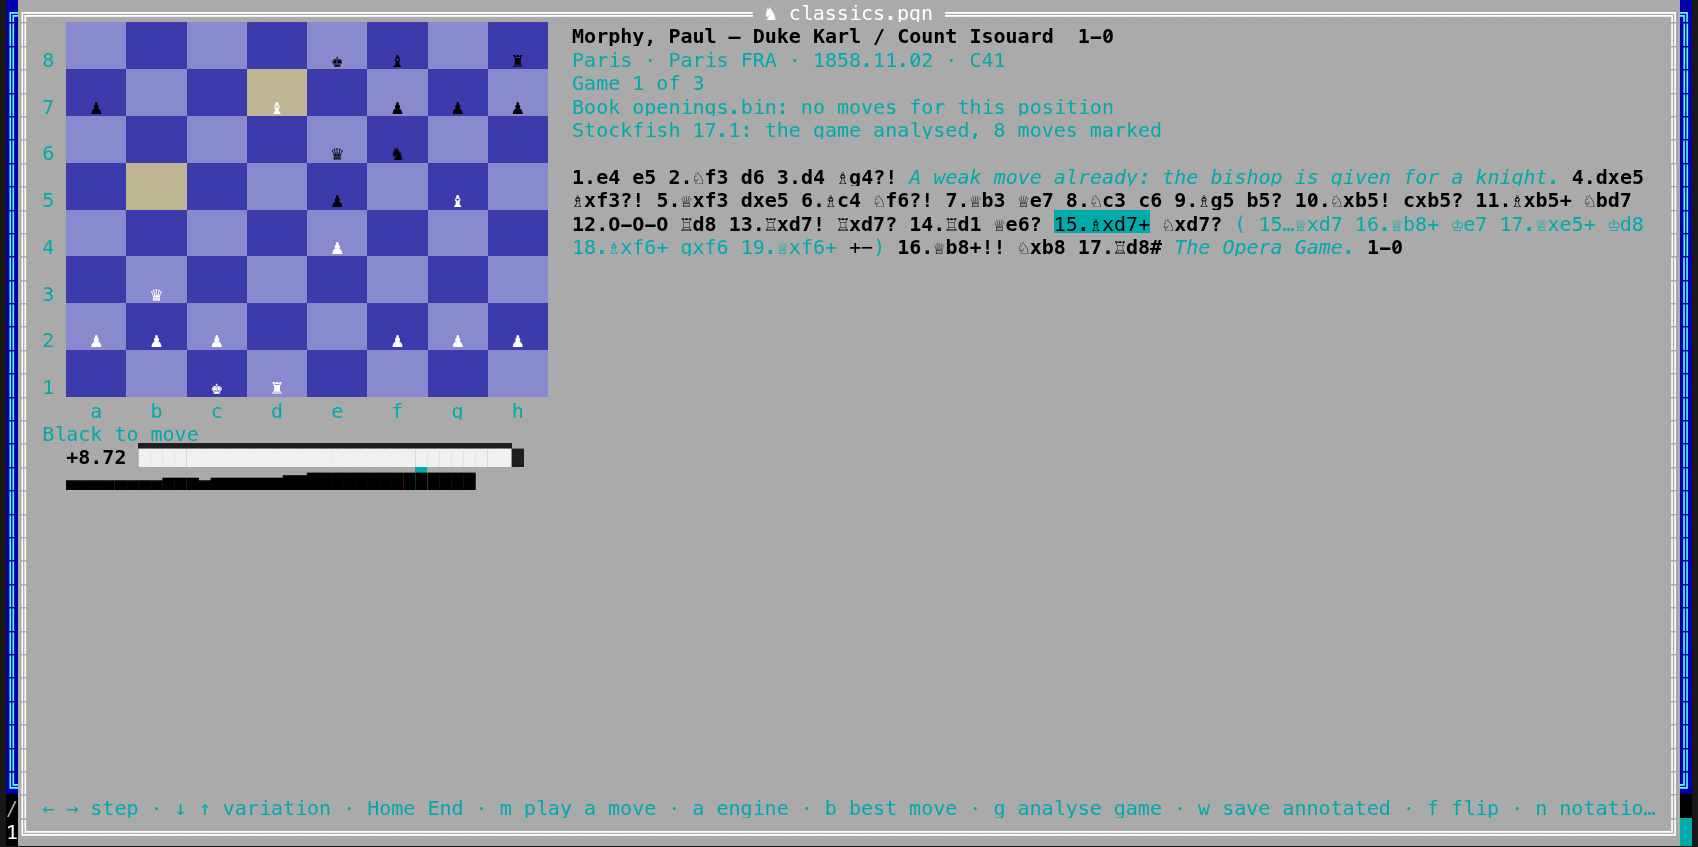
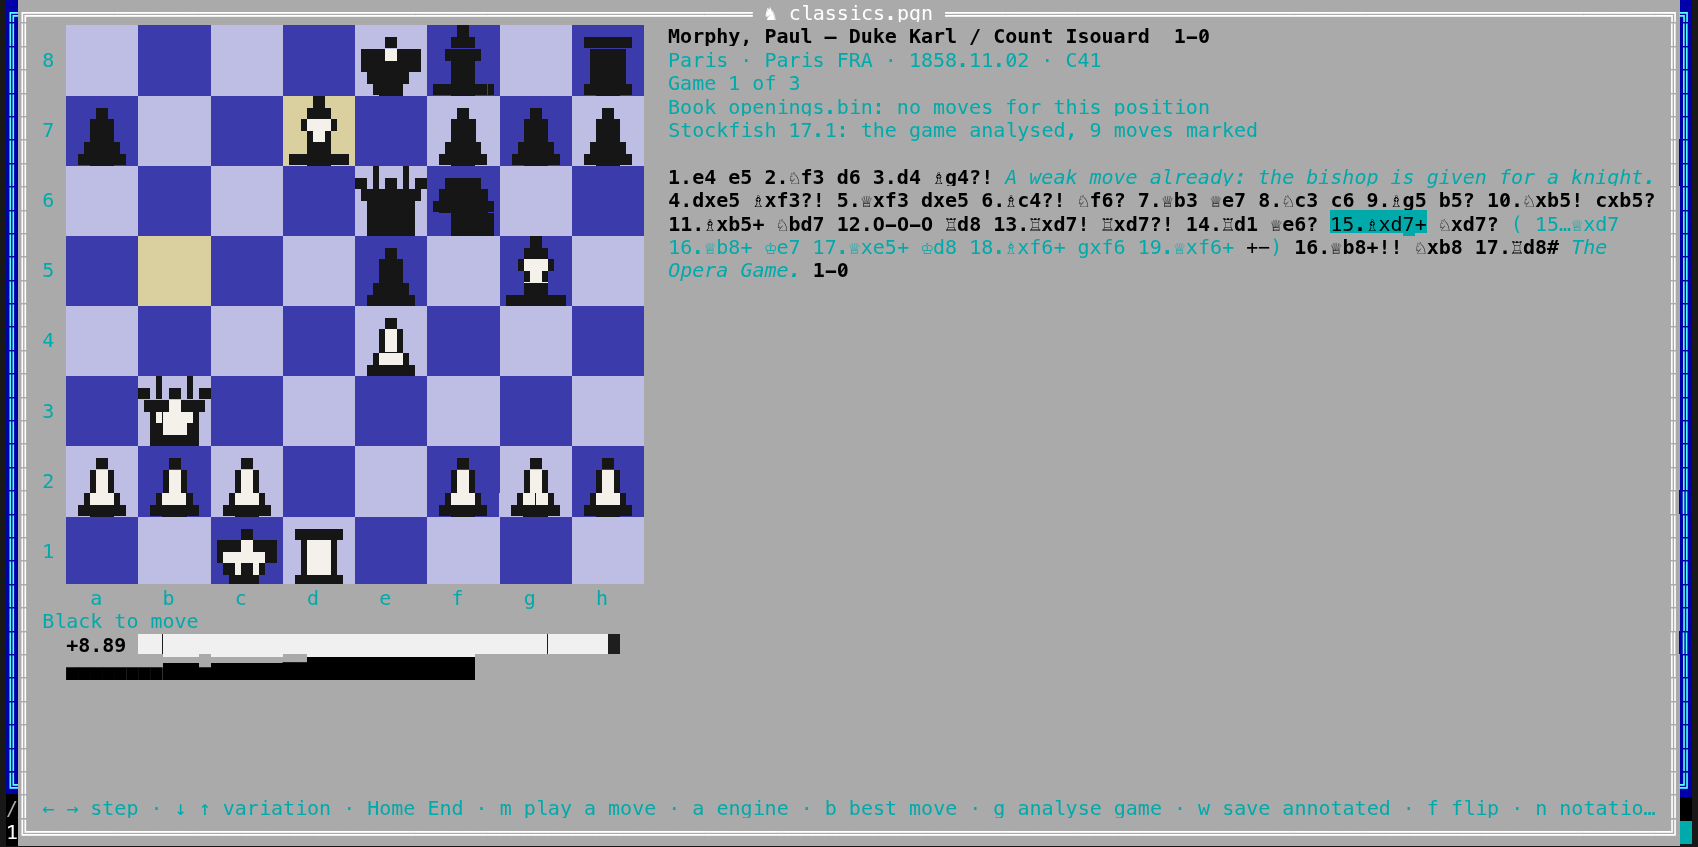
Chess analysis: the terminal picture with the block pieces

Changed region(s): [[0.0312, 0.0, 0.9988, 0.8288], [0.9676, 0.7367, 0.9988, 0.7674], [0.9676, 0.5832, 0.9988, 0.6139]]

diff --git a/docs/previews/chess-play.md b/docs/previews/chess-play.md
@@ -155,7 +155,7 @@ show the evaluations and marks from it.
 
 ![The Opera Game analysed in the desktop app, at 15.Bxd7+: the evaluation bar beside the board almost all white, +8.72 under the board, the graph of the game below with the line at this move and ticks under the eight marked moves, the marks ?!, ? and ?? after the moves, Analyse game and Save as annotated PGN under the board, Stockfish 17.1: the game analysed, 8 moves marked](../screenshots/gui-chess-review.png)
 
-![The same in the terminal app: +8.72 and the bar of blocks under the board, the row of bars for the game below it with this move highlighted, the marks after the moves, Stockfish 17.1: the game analysed, 8 moves marked above them](../screenshots/tui-chess-review.png)
+![The same in the terminal app, its pieces in block characters: +8.89 and the bar under the board, the row of bars for the game below it with this move highlighted, the marks after the moves, Stockfish 17.1: the game analysed, 9 moves marked above them](../screenshots/tui-chess-review.png)
 
 ## Settings and config.toml
 
